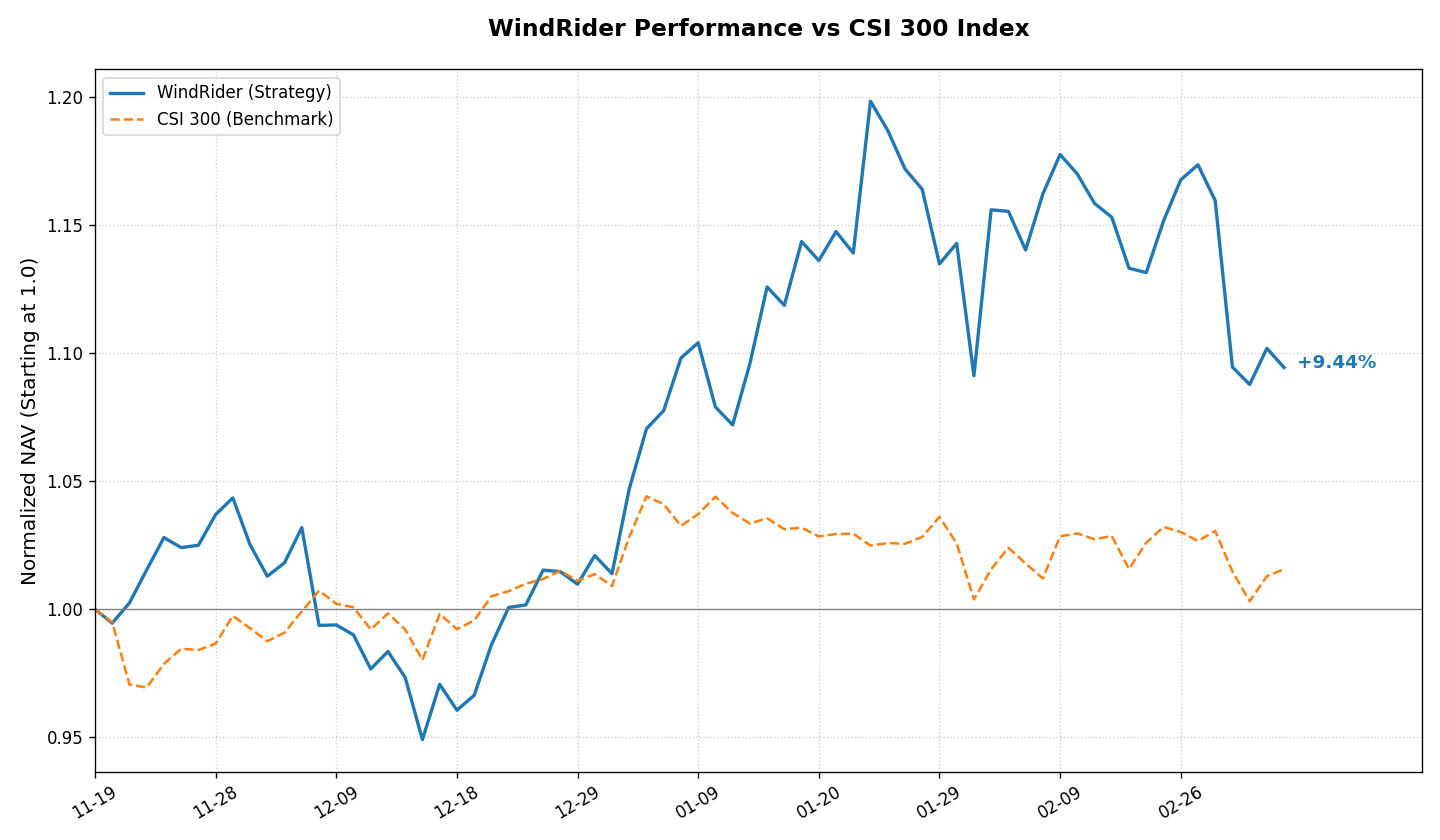
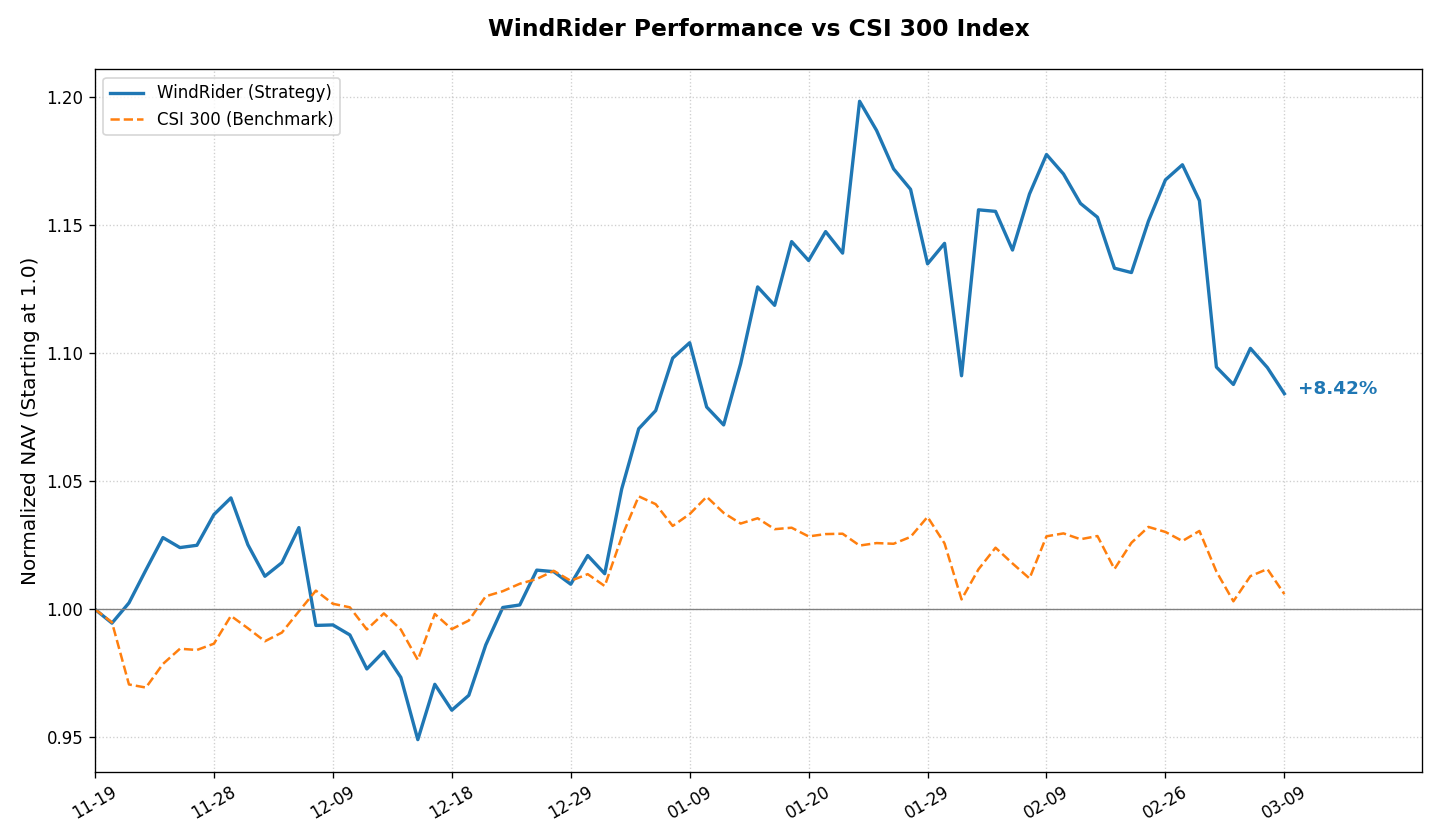
Updated Hugo site content

diff --git a/public/investment/position/index.html b/public/investment/position/index.html
@@ -66,8 +66,8 @@
   <meta property="og:locale" content="zh-cn">
   <meta property="og:type" content="article">
     <meta property="article:section" content="investment">
-    <meta property="article:published_time" content="2026-03-09T21:44:21+08:00">
-    <meta property="article:modified_time" content="2026-03-09T21:44:21+08:00">
+    <meta property="article:published_time" content="2026-03-09T21:50:57+08:00">
+    <meta property="article:modified_time" content="2026-03-09T21:50:57+08:00">
 <meta name="twitter:card" content="summary">
 <meta name="twitter:title" content="如山-股票组合持仓 /// Position">
 <meta name="twitter:description" content="如山股票组合持仓">
@@ -103,11 +103,11 @@
   "keywords": [
     
   ],
-  "articleBody": " 风舵股票组合 /// 每日持仓 WindRider Equity Portfolio 净值简报 (截至: 2026-03-06)\n指数代码： WDR.EQ 成立日期： 2025-11-19 最新净值： 1.0944 今日涨跌： -0.68% ===========================\n核心表现 累计收益： +9.44% 年化收益： +36.03% 最大回撤： -9.23% 基准点位： 4660.44 (CSI300) 策略状态： 已运行 108 天 持仓明细 股票名称 成本价 现价 盈亏 占比 先导智能 300450 52.17 50.14 -3.89% 95.19% 收益率对比曲线 声明：本页面数据为实盘记录，持仓数据每日收盘后更新。\n数据仅供技术交流，不构成投资建议。\n",
+  "articleBody": " 风舵股票组合 /// 每日持仓 WindRider Equity Portfolio 净值简报 (截至: 2026-03-09)\n指数代码： WDR.EQ 成立日期： 2025-11-19 最新净值： 1.0842 今日涨跌： -0.93% ===========================\n核心表现 累计收益： +8.42% 年化收益： +30.77% 最大回撤： -9.53% 基准点位： 4615.46 (CSI300) 策略状态： 已运行 111 天 持仓明细 股票名称 成本价 现价 盈亏 占比 先导智能 300450 52.17 49.65 -4.83% 99.64% 收益率对比曲线 声明：本页面数据为实盘记录，持仓数据每日收盘后更新。\n数据仅供技术交流，不构成投资建议。\n",
   "wordCount" : "47",
   "inLanguage": "zh-cn",
-  "datePublished": "2026-03-09T21:44:21+08:00",
-  "dateModified": "2026-03-09T21:44:21+08:00",
+  "datePublished": "2026-03-09T21:50:57+08:00",
+  "dateModified": "2026-03-09T21:50:57+08:00",
   "mainEntityOfPage": {
     "@type": "WebPage",
     "@id": "https://hankou.com/investment/position/"
@@ -196,7 +196,7 @@
     <div class="post-description">
       如山股票组合持仓
     </div>
-    <div class="post-meta"><span title='2026-03-09 21:44:21 +0800 CST'>March 9, 2026</span>
+    <div class="post-meta"><span title='2026-03-09 21:50:57 +0800 CST'>March 9, 2026</span>
 
 </div>
   </header> 
@@ -205,7 +205,7 @@
 </style>
 <h3 id="风舵股票组合--每日持仓">风舵股票组合   <span style="color: #E63946; font-weight: bold;">/</span><span style="color: #F1A73E; font-weight: bold;">/</span><span style="color: #000091; font-weight: bold;">/</span>   每日持仓<a hidden class="anchor" aria-hidden="true" href="#风舵股票组合--每日持仓">#</a></h3>
 <p>WindRider Equity Portfolio <br>
-净值简报 <small>(截至: 2026-03-06)</small></p>
+净值简报 <small>(截至: 2026-03-09)</small></p>
 <table>
   <thead>
       <tr>
@@ -224,11 +224,11 @@
       </tr>
       <tr>
           <td style="text-align: left"><strong>最新净值：</strong></td>
-          <td style="text-align: left">1.0944</td>
+          <td style="text-align: left">1.0842</td>
       </tr>
       <tr>
           <td style="text-align: left"><strong>今日涨跌：</strong></td>
-          <td style="text-align: left">-0.68%</td>
+          <td style="text-align: left">-0.93%</td>
       </tr>
   </tbody>
 </table>
@@ -243,23 +243,23 @@
   <tbody>
       <tr>
           <td style="text-align: left"><strong>累计收益：</strong></td>
-          <td style="text-align: left">+9.44%</td>
+          <td style="text-align: left">+8.42%</td>
       </tr>
       <tr>
           <td style="text-align: left"><strong>年化收益：</strong></td>
-          <td style="text-align: left">+36.03%</td>
+          <td style="text-align: left">+30.77%</td>
       </tr>
       <tr>
           <td style="text-align: left"><strong>最大回撤：</strong></td>
-          <td style="text-align: left">-9.23%</td>
+          <td style="text-align: left">-9.53%</td>
       </tr>
       <tr>
           <td style="text-align: left"><strong>基准点位：</strong></td>
-          <td style="text-align: left">4660.44 (CSI300)</td>
+          <td style="text-align: left">4615.46 (CSI300)</td>
       </tr>
       <tr>
           <td style="text-align: left"><strong>策略状态：</strong></td>
-          <td style="text-align: left">已运行 108 天</td>
+          <td style="text-align: left">已运行 111 天</td>
       </tr>
   </tbody>
 </table>
@@ -279,9 +279,9 @@
       <tr>
           <td style="text-align: left">先导智能 <small>300450</small></td>
           <td style="text-align: left">52.17</td>
-          <td style="text-align: left">50.14</td>
-          <td style="text-align: left"><span style="color:#2A9D8F">-3.89%</span></td>
-          <td style="text-align: left">95.19%</td>
+          <td style="text-align: left">49.65</td>
+          <td style="text-align: left"><span style="color:#2A9D8F">-4.83%</span></td>
+          <td style="text-align: left">99.64%</td>
           <td></td>
       </tr>
   </tbody>

diff --git a/public/investment/index.html b/public/investment/index.html
@@ -157,7 +157,7 @@
   <div class="entry-content">
     <p>主动管理型股票组合。对标沪深300指数，采用基本面选股策略。</p>
   </div>
-  <footer class="entry-footer"><span title='2026-03-09 21:44:21 +0800 CST'>March 9, 2026</span></footer>
+  <footer class="entry-footer"><span title='2026-03-09 21:50:57 +0800 CST'>March 9, 2026</span></footer>
   <a class="entry-link" aria-label="post link to 如山-股票组合持仓 /// Position" href="https://hankou.com/investment/position/"></a>
 </article>
 

diff --git a/content/investment/position.md b/content/investment/position.md
@@ -1,8 +1,8 @@
 +++
 title = "如山-股票组合持仓 /// Position"
 summary = "主动管理型股票组合。对标沪深300指数，采用基本面选股策略。"
-date = 2026-03-09T21:50:57+08:00
-lastmod = 2026-03-09T21:50:57+08:00
+date = 2026-03-10T15:10:04+08:00
+lastmod = 2026-03-10T15:10:04+08:00
 draft = false
 description = "如山股票组合持仓"
 +++
@@ -12,29 +12,29 @@ description = "如山股票组合持仓"
 
 ### 风舵股票组合 &nbsp;&nbsp;<span style="color: #E63946; font-weight: bold;">/</span><span style="color: #F1A73E; font-weight: bold;">/</span><span style="color: #000091; font-weight: bold;">/</span>&nbsp;&nbsp; 每日持仓
 WindRider Equity Portfolio <br>
-净值简报 <small>(截至: 2026-03-09)</small>
+净值简报 <small>(截至: 2026-03-10)</small>
 
 |  |  |
 | :--- | :--- |
 | **指数代码：** | WDR.EQ |
 | **成立日期：** | 2025-11-19 |
-| **最新净值：** | 1.0842 |
-| **今日涨跌：** | -0.93% |
+| **最新净值：** | 1.1093 |
+| **今日涨跌：** | +2.32% |
 
 ===========================
 
 | 核心表现 | |
 | :--- | :--- |
-| **累计收益：** | +8.42% |
-| **年化收益：** | +30.77% |
+| **累计收益：** | +10.93% |
+| **年化收益：** | +40.65% |
 | **最大回撤：** | -9.53% |
-| **基准点位：** | 4615.46 (CSI300) |
-| **策略状态：** | 已运行 111 天 |
+| **基准点位：** | 4674.76 (CSI300) |
+| **策略状态：** | 已运行 112 天 |
 
 ### 持仓明细
 | 股票名称 | 成本价 | 现价 | 盈亏 | 占比 |
 | :--- | :--- | :--- | :--- | :--- | :--- |
-| 先导智能 <small>300450</small> | 52.17 | 49.65 | <span style="color:#2A9D8F">-4.83%</span> | 99.64% |
+| 先导智能 <small>300450</small> | 52.17 | 50.87 | <span style="color:#2A9D8F">-2.49%</span> | 99.67% |
 
 <br>
 
